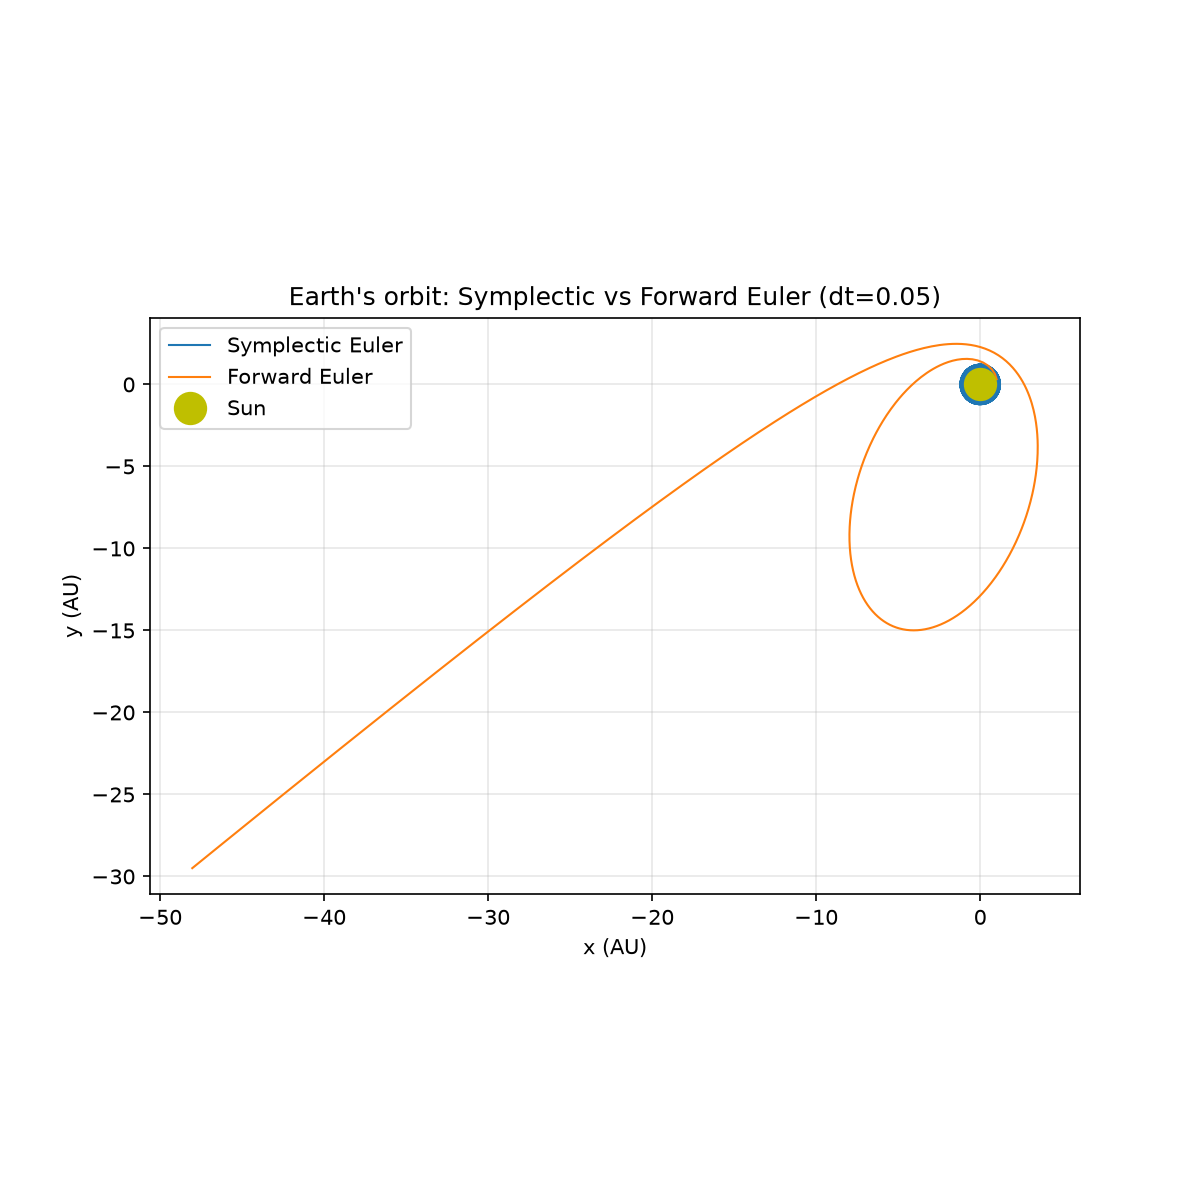
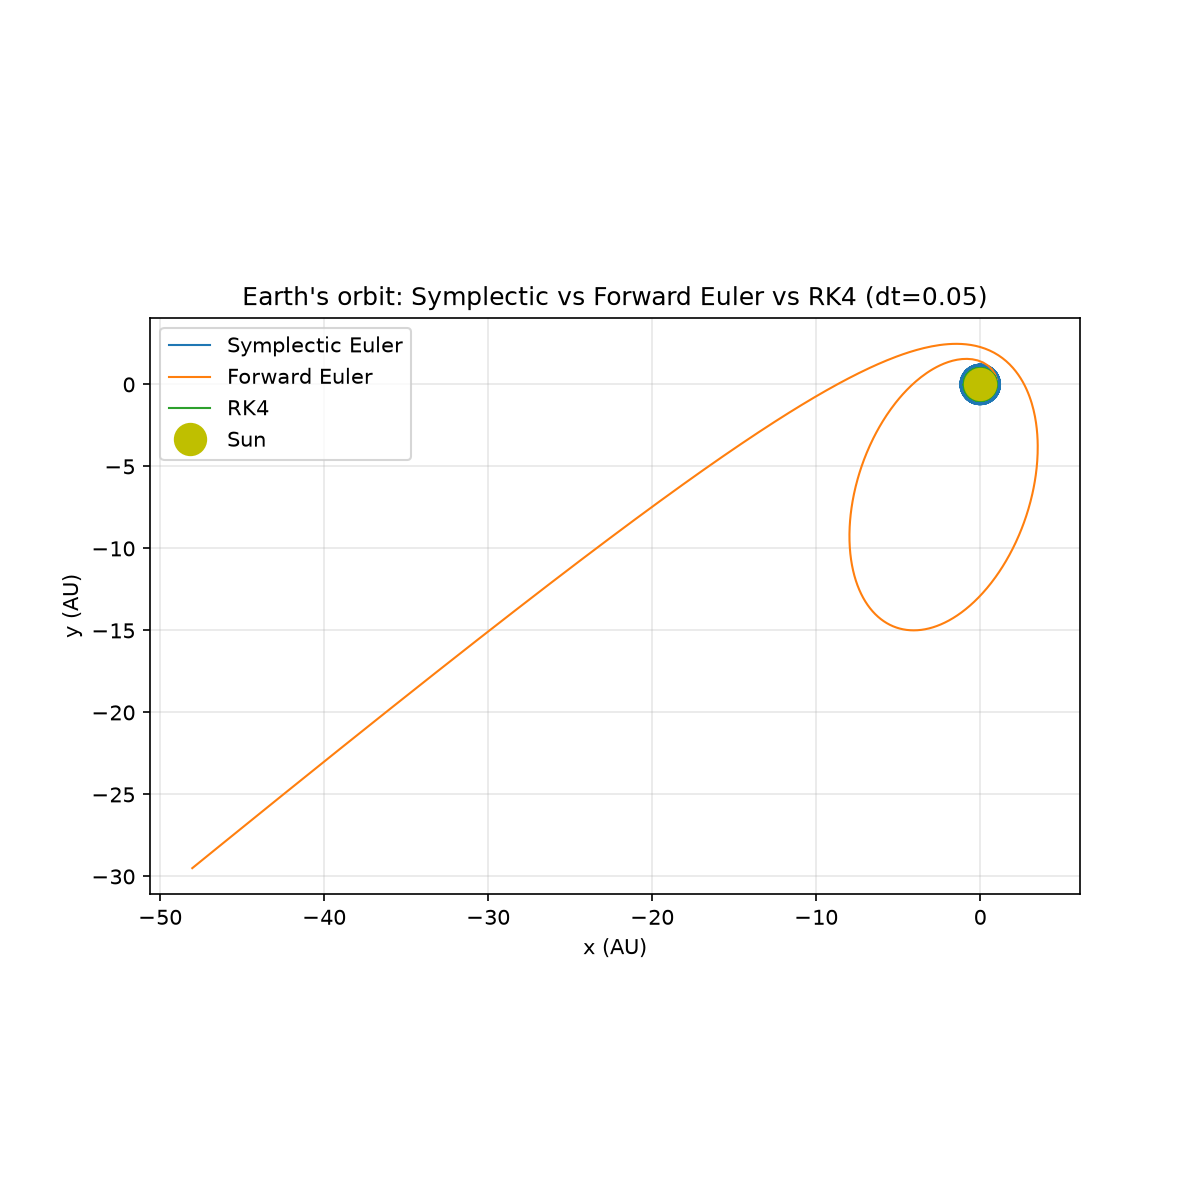
Confirm RK4 exhibits small-but-real secular drift vs symplectic Euler's bounded oscillation; validated by halving dt.

Changed region(s): [[0.2158, 0.2158, 0.8017, 0.2775], [0.1233, 0.3083, 0.2467, 0.4008]]

diff --git a/main.py b/main.py
@@ -1,11 +1,11 @@
 import numpy as np
 import matplotlib.pyplot as plt
 from src.bodies import Body
-from src.physics import acceleration, step_semi_implicit, step_explicit, energy
+from src.physics import acceleration, step_semi_implicit, step_explicit, energy, step_rk4
 
 
 sun = Body("Sun", mass=1.0, position=[0, 0], velocity=[0, 0])
-dt = 0.05
+dt = 0.025
 steps = 1000
 
 # semi-implicit (symplectic) Euler
@@ -23,18 +23,51 @@ for i in range(steps):
     step_explicit(earth, sun.position, sun.mass, dt)
     forward_positions.append(earth.position.copy())
 forward_positions = np.array(forward_positions)
+# RK4
+earth = Body("Earth", mass=3e-6, position=[1.0, 0.0], velocity=[0.0, 2*np.pi])
+rk4_positions = []
+for i in range(steps):
+    step_rk4(earth, sun.position, sun.mass, dt)
+    rk4_positions.append(earth.position.copy())
+rk4_positions = np.array(rk4_positions)
+# Energy comparison
+earth = Body("Earth", mass=3e-6, position=[1.0, 0.0], velocity=[0.0, 2*np.pi])
+symplectic_energy = []
+for i in range(steps):
+    step_semi_implicit(earth, sun.position, sun.mass, dt)
+    symplectic_energy.append(energy(earth, sun.position, sun.mass))
 
-# Plot
+earth = Body("Earth", mass=3e-6, position=[1.0, 0.0], velocity=[0.0, 2*np.pi])
+rk4_energy = []
+for i in range(steps):
+    step_rk4(earth, sun.position, sun.mass, dt)
+    rk4_energy.append(energy(earth, sun.position, sun.mass))
+
+# Energy plot
+plt.figure(figsize=(8, 5))
+plt.plot(symplectic_energy, label="Symplectic Euler")
+plt.plot(rk4_energy, label="RK4")
+plt.axhline(-19.7402, color='gray', linestyle='--',
+            linewidth=0.8, label="True energy")
+plt.xlabel("Step")
+plt.ylabel("Total energy")
+plt.title("Energy conservation: Symplectic vs RK4 (dt=0.05)")
+plt.legend()
+plt.grid(True, alpha=0.3)
+plt.savefig("energy_comparison.png", dpi=150)
+plt.show()
+# Trajectory plot
 plt.figure(figsize=(8, 8))
 plt.plot(symplectic_positions[:, 0], symplectic_positions[:,
          1], label="Symplectic Euler", linewidth=1)
 plt.plot(forward_positions[:, 0], forward_positions[:,
          1], label="Forward Euler", linewidth=1)
-plt.plot(0, 0, 'yo', markersize=15, label="Sun")  # sun at origin
-plt.gca().set_aspect('equal')  # so orbits aren't visually distorted
+plt.plot(rk4_positions[:, 0], rk4_positions[:, 1], label="RK4", linewidth=1)
+plt.plot(0, 0, 'yo', markersize=15, label="Sun")
+plt.gca().set_aspect('equal')
 plt.xlabel("x (AU)")
 plt.ylabel("y (AU)")
-plt.title("Earth's orbit: Symplectic vs Forward Euler (dt=0.05)")
+plt.title("Earth's orbit: Symplectic vs Forward Euler vs RK4 (dt=0.05)")
 plt.legend()
 plt.grid(True, alpha=0.3)
 plt.savefig("orbit_comparison.png", dpi=150)

diff --git a/src/physics.py b/src/physics.py
@@ -28,3 +28,28 @@ def energy(body, other_pos, other_mass, G=4*np.pi**2):
     kinetic = 0.5 * v**2          # per unit mass of the orbiting body
     potential = -G * other_mass / r
     return kinetic + potential
+
+
+def derivatives(pos, vel, other_pos, other_mass):
+    acc = acceleration(pos, other_pos, other_mass)
+    return vel, acc   # (dr/dt, dv/dt)
+
+
+def step_rk4(body, other_pos, other_mass, dt):
+    r1, v1 = body.position, body.velocity
+    k1r, k1v = derivatives(r1, v1, other_pos, other_mass)
+
+    r2 = r1 + dt/2 * k1r
+    v2 = v1 + dt/2 * k1v
+    k2r, k2v = derivatives(r2, v2, other_pos, other_mass)
+
+    r3 = r1 + dt/2 * k2r
+    v3 = v1 + dt/2 * k2v
+    k3r, k3v = derivatives(r3, v3, other_pos, other_mass)
+
+    r4 = r1 + dt * k3r
+    v4 = v1 + dt * k3v
+    k4r, k4v = derivatives(r4, v4, other_pos, other_mass)
+
+    body.position = r1 + dt/6 * (k1r + 2*k2r + 2*k3r + k4r)
+    body.velocity = v1 + dt/6 * (k1v + 2*k2v + 2*k3v + k4v)
